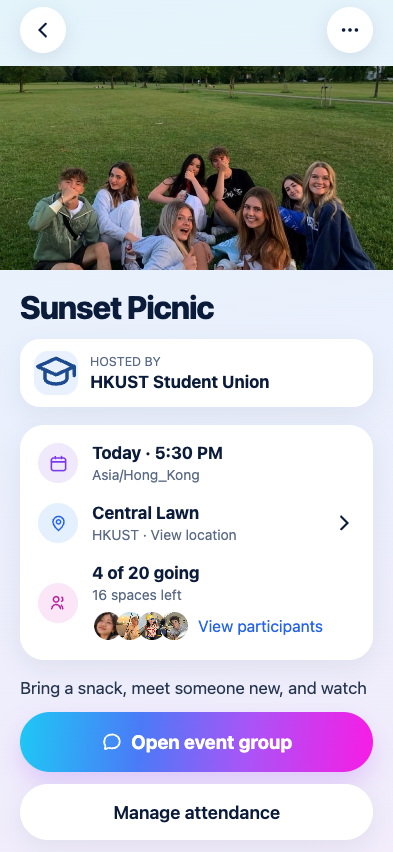
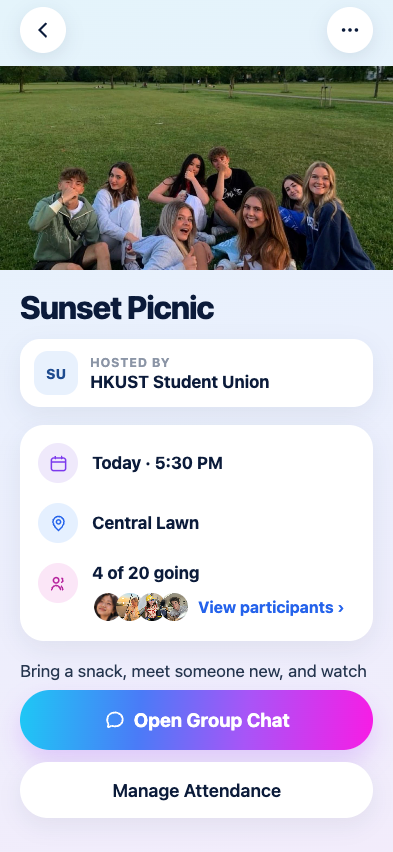
fix(events): restore detail labels and source information hierarchy

diff --git a/src/pages/events/detail.vue b/src/pages/events/detail.vue
@@ -26,25 +26,25 @@ const report = async () => { close(); await go('report') }
       <view class="event-detail-cover"><ProfilePhoto :src="event.image_url" :name="event.title" event-cover /></view>
       <view class="event-page-body event-detail-body">
         <text class="event-page-title">{{ event.title }}</text>
-        <view class="event-page-card event-detail-host"><view class="event-detail-host-icon"><SourceIcon name="university" /></view><view><text class="event-detail-host-label">Hosted by</text><text class="event-detail-host-name">{{ event.organizer?.name || 'Organizer not provided' }}</text></view></view>
+        <view class="event-page-card event-detail-host"><view class="event-detail-host-icon">{{ event.organizer?.badge_label }}</view><view><text class="event-detail-host-label">Hosted by</text><text class="event-detail-host-name">{{ event.organizer?.name || 'Organizer not provided' }}<view v-if="event.organizer?.verified" class="event-detail-verified"><SourceIcon name="verified" /></view></text></view></view>
         <view class="event-page-card event-detail-info">
-          <view class="event-detail-row"><view class="event-detail-disc"><view class="event-page-icon"><SourceIcon name="events" /></view></view><view class="event-detail-row-main"><text class="event-detail-row-title">{{ event.date_label }}</text><text class="event-detail-row-sub">{{ event.time_zone_label }}{{ event.ended ? ' · Ended' : '' }}</text></view></view>
-          <view class="event-detail-row" role="button" tabindex="0" data-interaction="eventDetail.location.open.click.1" @click="open('location')" @keydown.enter="open('location')"><view class="event-detail-disc event-detail-disc--location"><view class="event-page-icon"><SourceIcon name="location" /></view></view><view class="event-detail-row-main"><text class="event-detail-row-title">{{ event.location }}</text><text class="event-detail-row-sub">{{ event.university }} · View location</text></view><view class="event-page-icon"><SourceIcon name="chevron" /></view></view>
-          <view class="event-detail-row" role="button" tabindex="0" data-interaction="evDetail.openParticipantsList.click.1" @click="go('participants')" @keydown.enter="go('participants')"><view class="event-detail-disc event-detail-disc--people"><view class="event-page-icon"><SourceIcon name="people" /></view></view><view class="event-detail-row-main"><text class="event-detail-row-title" data-event-count>{{ event.attendance_label }}</text><text class="event-detail-row-sub">{{ event.available_count }} spaces left</text><view class="event-detail-avatars"><view v-for="person in event.participants" :key="person.user_id" class="event-detail-avatar"><UserAvatar :src="person.avatar_url" :name="person.user_name" /></view><text class="event-detail-participants-link">View participants</text></view></view></view>
+          <view class="event-detail-row"><view class="event-detail-disc"><view class="event-page-icon"><SourceIcon name="events" :stroke-width="1.9" /></view></view><view class="event-detail-row-main"><text class="event-detail-row-title">{{ event.date_label }}</text></view></view>
+          <view class="event-detail-row" role="button" tabindex="0" data-interaction="eventDetail.location.open.click.1" @click="open('location')" @keydown.enter="open('location')"><view class="event-detail-disc event-detail-disc--location"><view class="event-page-icon"><SourceIcon name="location" /></view></view><view class="event-detail-row-main"><text class="event-detail-row-title">{{ event.location }}</text></view></view>
+          <view class="event-detail-row" role="button" tabindex="0" data-interaction="evDetail.openParticipantsList.click.1" @click="go('participants')" @keydown.enter="go('participants')"><view class="event-detail-disc event-detail-disc--people"><view class="event-page-icon"><SourceIcon name="people" /></view></view><view class="event-detail-row-main"><text class="event-detail-row-title" data-event-count>{{ event.attendance_label }}</text><view class="event-detail-avatars"><view v-for="person in event.participants" :key="person.user_id" class="event-detail-avatar"><UserAvatar :src="person.avatar_url" :name="person.user_name" /></view><text class="event-detail-participants-link">View participants ›</text></view></view></view>
         </view>
         <text class="event-page-copy event-detail-description">{{ event.description || 'The organizer has not added a description yet.' }}</text>
         <text class="event-page-section">Schedule</text>
         <view class="event-page-card event-detail-schedule"><view v-for="(item, index) in event.schedule" :key="index" class="event-detail-schedule-row"><view class="event-detail-timeline" /><view><text class="event-detail-time">{{ item.time_label }}</text><text class="event-detail-schedule-title">{{ item.label }}</text><text class="event-detail-schedule-copy">{{ item.description }}</text></view></view><text v-if="!event.schedule.length" class="event-detail-schedule-copy">No schedule has been provided.</text></view>
         <text class="event-page-section">Good to know</text>
-        <view class="event-detail-notes"><text v-for="note in event.notes" :key="note" class="event-detail-note">{{ note }}</text><text v-if="!event.notes.length" class="event-detail-schedule-copy">No additional notes yet.</text></view>
+        <view class="event-detail-notes"><view v-for="note in event.note_chips" :key="note.label" class="event-detail-note"><text v-if="note.emoji" class="event-detail-note-emoji">{{ note.emoji }}</text><text>{{ note.label }}</text></view><text v-if="!event.notes.length" class="event-detail-schedule-copy">No additional notes yet.</text></view>
         <template v-if="event.joined && event.organizer?.update_text"><text class="event-page-section">Organizer update</text><view class="event-page-card event-detail-schedule"><text class="event-detail-schedule-copy">{{ event.organizer.update_text }}</text></view></template>
       </view>
     </template>
     <template #footer>
       <text v-if="error && !sheet" class="event-page-error" role="alert">{{ error }}</text>
       <view v-if="event && !access_error" class="event-page-footer">
-        <template v-if="event.joined"><view class="event-page-primary" role="button" tabindex="0" data-interaction="evDetail.openGroup.click.1" @click="go('group')" @keydown.enter="go('group')"><view class="event-page-icon"><SourceIcon name="support" /></view>Open event group</view><view class="event-page-secondary" role="button" tabindex="0" data-interaction="evDetail.manageAttendance.click.1" @click="open('cancel')" @keydown.enter="open('cancel')">Manage attendance</view></template>
-        <view v-else class="event-page-primary" role="button" tabindex="0" data-interaction="evDetail.askJoin.click.1" @click="open('join')" @keydown.enter="open('join')">{{ event.ended ? 'Event ended' : event.available_count ? 'Join event' : 'Event full' }}</view>
+        <template v-if="event.joined"><view class="event-page-primary" role="button" tabindex="0" data-interaction="evDetail.openGroup.click.1" @click="go('group')" @keydown.enter="go('group')"><view class="event-page-icon"><SourceIcon name="support" /></view>Open Group Chat</view><view class="event-page-secondary" role="button" tabindex="0" data-interaction="evDetail.manageAttendance.click.1" @click="open('cancel')" @keydown.enter="open('cancel')">Manage Attendance</view></template>
+        <view v-else class="event-page-primary" role="button" tabindex="0" data-interaction="evDetail.askJoin.click.1" @click="open('join')" @keydown.enter="open('join')">{{ event.ended ? 'Event ended' : event.available_count ? 'Join Event' : 'Event full' }}</view>
       </view>
     </template>
     <template #overlays>
@@ -61,3 +61,28 @@ const report = async () => { close(); await go('report') }
     </template>
   </SecondaryPageFrame>
 </template>
+
+<style scoped>
+.event-detail-host-label { color: var(--cimoa-text-auth-placeholder); font-weight: 700; letter-spacing: 0.06em; }
+.event-detail-host-name { display: flex; align-items: center; gap: 7.634rpx; margin-top: 3.817rpx; }
+.event-detail-verified { display: inline-flex; width: 32.443rpx; height: 32.443rpx; flex: none; }
+.event-detail-row:last-child { align-items: flex-start; }
+.event-detail-participants-link { font-weight: 700; }
+.event-detail-avatars { margin-top: 15.267rpx; }
+.event-detail-description { margin-top: 34.351rpx; }
+.event-page-section { font-weight: 800; }
+.event-detail-schedule-row { gap: 26.718rpx; }
+.event-detail-time { font-weight: 700; color: var(--cimoa-text-auth-placeholder); }
+.event-detail-schedule-title { margin-top: 3.817rpx; font-weight: 700; }
+.event-detail-schedule-copy { margin-top: 3.817rpx; }
+.event-detail-note {
+  display: flex;
+  align-items: center;
+  gap: 13.359rpx;
+  padding: 0 22.901rpx;
+  font-weight: 500;
+  color: var(--cimoa-text-profile-bio);
+}
+.event-detail-note-emoji { font-size: 32.443rpx; }
+.event-page-footer { padding-bottom: 64.885rpx; }
+</style>

diff --git a/src/stores/eventSelectors.js b/src/stores/eventSelectors.js
@@ -54,10 +54,12 @@ export function event_detail(data, id, now) {
   const event = event_card(data, source, now), zone = event.time_zone || 'UTC'
   const clock = value => new Intl.DateTimeFormat('en-US', { timeZone: zone, hour: 'numeric', minute: '2-digit' }).format(value)
   const organizer = data.organizers.find(row => row.organizer_id === event.organizer_id)
-  return { ...event, organizer: clone_data(organizer || null), ended: event.ends_at <= now,
+  const notes = [...new Set([event.price === 0 ? 'Free to join' : null, ...(event.notes || '').split(/\.\s*/).filter(Boolean), event.accessibility, event.weather_plan].filter(Boolean))]
+  const note_icons = { 'Free to join': '🆓', 'Bring a picnic mat': '🧺', 'English & Cantonese': '🗣', 'Step-free access': '♿', 'Moves indoors if it rains': '🌧' }
+  return { ...event, organizer: organizer ? { ...clone_data(organizer), badge_label: organizer.badge_label || (organizer.name.endsWith('Student Union') ? 'SU' : organizer.name.split(/\s+/).map(word => word[0]).slice(0, 2).join('')) } : null, ended: event.ends_at <= now,
     attendance_label: `${event.participant_count} of ${event.capacity} going`,
     schedule: (event.schedule || []).map(item => ({ ...item, time_label: clock(event.starts_at + item.offset_minutes * 60000) })),
-    notes: [...new Set([event.price === 0 ? 'Free to join' : null, ...(event.notes || '').split(/\.\s*/).filter(Boolean), event.accessibility, event.weather_plan].filter(Boolean))],
+    notes, note_chips: notes.map(label => ({ label, emoji: note_icons[label] || '' })),
     share_text: [event.title, `${event.date_label} (${zone})`, event.location, event.description].filter(Boolean).join('\n') }
 }
 export function my_event_groups(data, now) {
